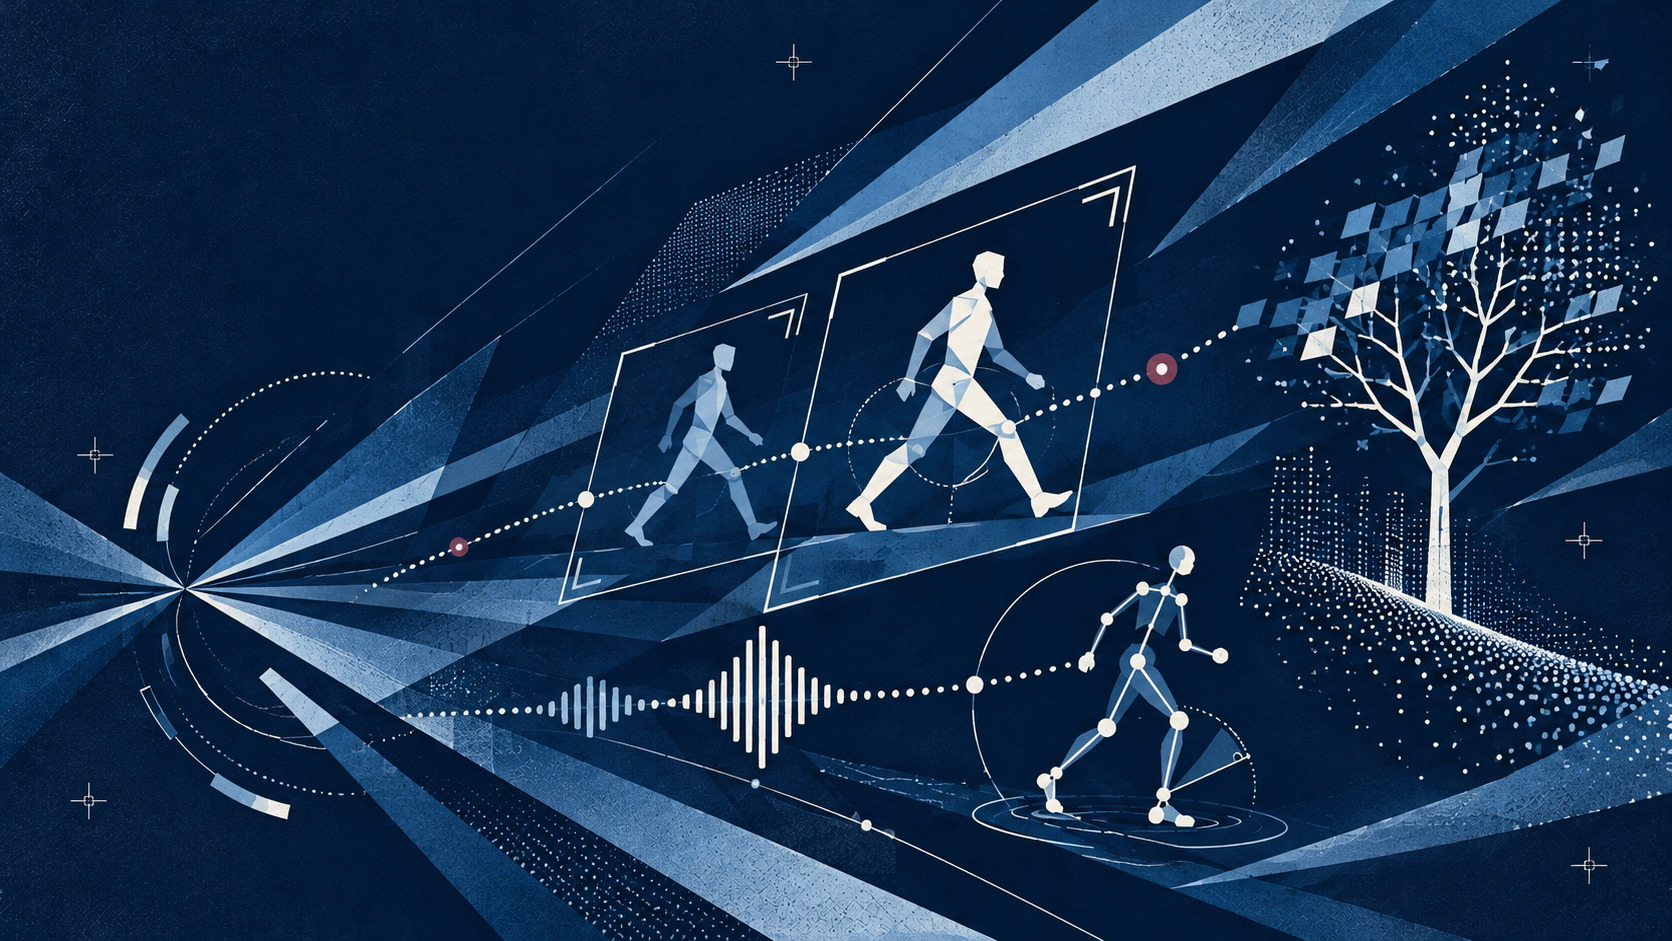
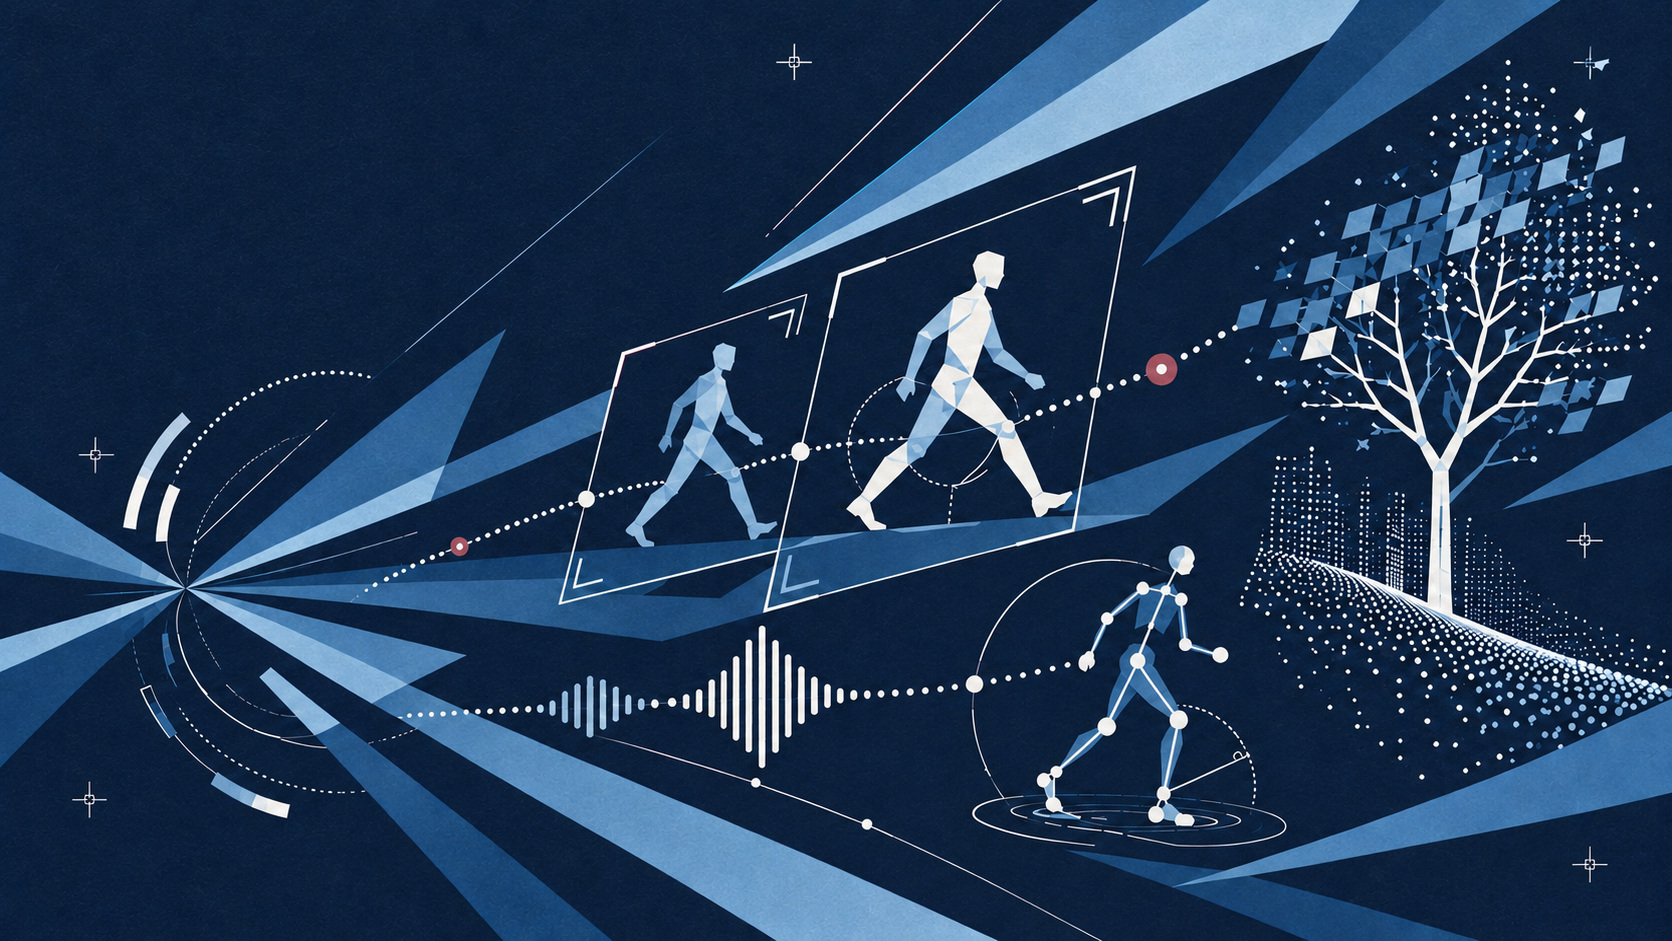
Refine hero artwork with subtle print textures

diff --git a/release/styles.css b/release/styles.css
@@ -1398,7 +1398,7 @@ body .site-footer {
   content: "";
   background:
     linear-gradient(180deg, color-mix(in oklch, var(--color-void) 68%, transparent), color-mix(in oklch, var(--color-panel) 62%, transparent)),
-    url("assets/home-key-visual.jpg?v=abstract-detail-2026-11-15") center 54% / cover;
+    url("assets/home-key-visual.jpg?v=print-texture-2026-11-15") center 54% / cover;
   filter: blur(0.85rem) saturate(0.72) brightness(0.78);
   transform: scale(1.035);
 }
@@ -1540,7 +1540,7 @@ body[data-view="home"] .site-backdrop::before {
   z-index: 2;
   inset: -1.5rem;
   content: "";
-  background: linear-gradient(180deg, color-mix(in oklch, var(--color-panel-strong) 48%, transparent), color-mix(in oklch, var(--color-void) 68%, transparent)), url("assets/home-key-visual.jpg?v=abstract-detail-2026-11-15") center / cover no-repeat;
+  background: linear-gradient(180deg, color-mix(in oklch, var(--color-panel-strong) 48%, transparent), color-mix(in oklch, var(--color-void) 68%, transparent)), url("assets/home-key-visual.jpg?v=print-texture-2026-11-15") center / cover no-repeat;
   filter: blur(0.5rem) saturate(0.78) brightness(0.68) contrast(1.08);
   opacity: clamp(0, calc(var(--home-backdrop-progress) * 1.6), 1);
   pointer-events: none;

diff --git a/styles.css b/styles.css
@@ -1398,7 +1398,7 @@ body .site-footer {
   content: "";
   background:
     linear-gradient(180deg, color-mix(in oklch, var(--color-void) 68%, transparent), color-mix(in oklch, var(--color-panel) 62%, transparent)),
-    url("assets/home-key-visual.jpg?v=abstract-detail-2026-11-15") center 54% / cover;
+    url("assets/home-key-visual.jpg?v=print-texture-2026-11-15") center 54% / cover;
   filter: blur(0.85rem) saturate(0.72) brightness(0.78);
   transform: scale(1.035);
 }
@@ -1540,7 +1540,7 @@ body[data-view="home"] .site-backdrop::before {
   z-index: 2;
   inset: -1.5rem;
   content: "";
-  background: linear-gradient(180deg, color-mix(in oklch, var(--color-panel-strong) 48%, transparent), color-mix(in oklch, var(--color-void) 68%, transparent)), url("assets/home-key-visual.jpg?v=abstract-detail-2026-11-15") center / cover no-repeat;
+  background: linear-gradient(180deg, color-mix(in oklch, var(--color-panel-strong) 48%, transparent), color-mix(in oklch, var(--color-void) 68%, transparent)), url("assets/home-key-visual.jpg?v=print-texture-2026-11-15") center / cover no-repeat;
   filter: blur(0.5rem) saturate(0.78) brightness(0.68) contrast(1.08);
   opacity: clamp(0, calc(var(--home-backdrop-progress) * 1.6), 1);
   pointer-events: none;

diff --git a/index.html b/index.html
@@ -11,12 +11,12 @@
     <link rel="preconnect" href="https://fonts.gstatic.com" crossorigin />
     <link href="https://fonts.googleapis.com/css2?family=Geist:wght@100..900&display=swap" rel="stylesheet" />
     <link rel="stylesheet" href="tokens.css?v=geist-cdn-webp-2026-10-16" />
-    <link rel="stylesheet" href="styles.css?v=abstract-detail-2026-11-15" />
+    <link rel="stylesheet" href="styles.css?v=print-texture-2026-11-15" />
   </head>
   <body data-view="home">
     <div class="site-backdrop" data-site-backdrop aria-hidden="true">
       <canvas class="site-backdrop__canvas" data-site-backdrop-canvas></canvas>
-      <img class="site-backdrop__source" data-site-backdrop-source src="assets/home-key-visual.jpg?v=abstract-detail-2026-11-15" alt="" />
+      <img class="site-backdrop__source" data-site-backdrop-source src="assets/home-key-visual.jpg?v=print-texture-2026-11-15" alt="" />
     </div>
     <a class="skip-link" href="#main-content">跳到主要內容</a>
 

diff --git a/release/index.html b/release/index.html
@@ -11,12 +11,12 @@
     <link rel="preconnect" href="https://fonts.gstatic.com" crossorigin />
     <link href="https://fonts.googleapis.com/css2?family=Geist:wght@100..900&display=swap" rel="stylesheet" />
     <link rel="stylesheet" href="tokens.css?v=geist-cdn-webp-2026-10-16" />
-    <link rel="stylesheet" href="styles.css?v=abstract-detail-2026-11-15" />
+    <link rel="stylesheet" href="styles.css?v=print-texture-2026-11-15" />
   </head>
   <body data-view="home">
     <div class="site-backdrop" data-site-backdrop aria-hidden="true">
       <canvas class="site-backdrop__canvas" data-site-backdrop-canvas></canvas>
-      <img class="site-backdrop__source" data-site-backdrop-source src="assets/home-key-visual.jpg?v=abstract-detail-2026-11-15" alt="" />
+      <img class="site-backdrop__source" data-site-backdrop-source src="assets/home-key-visual.jpg?v=print-texture-2026-11-15" alt="" />
     </div>
     <a class="skip-link" href="#main-content">跳到主要內容</a>
 
